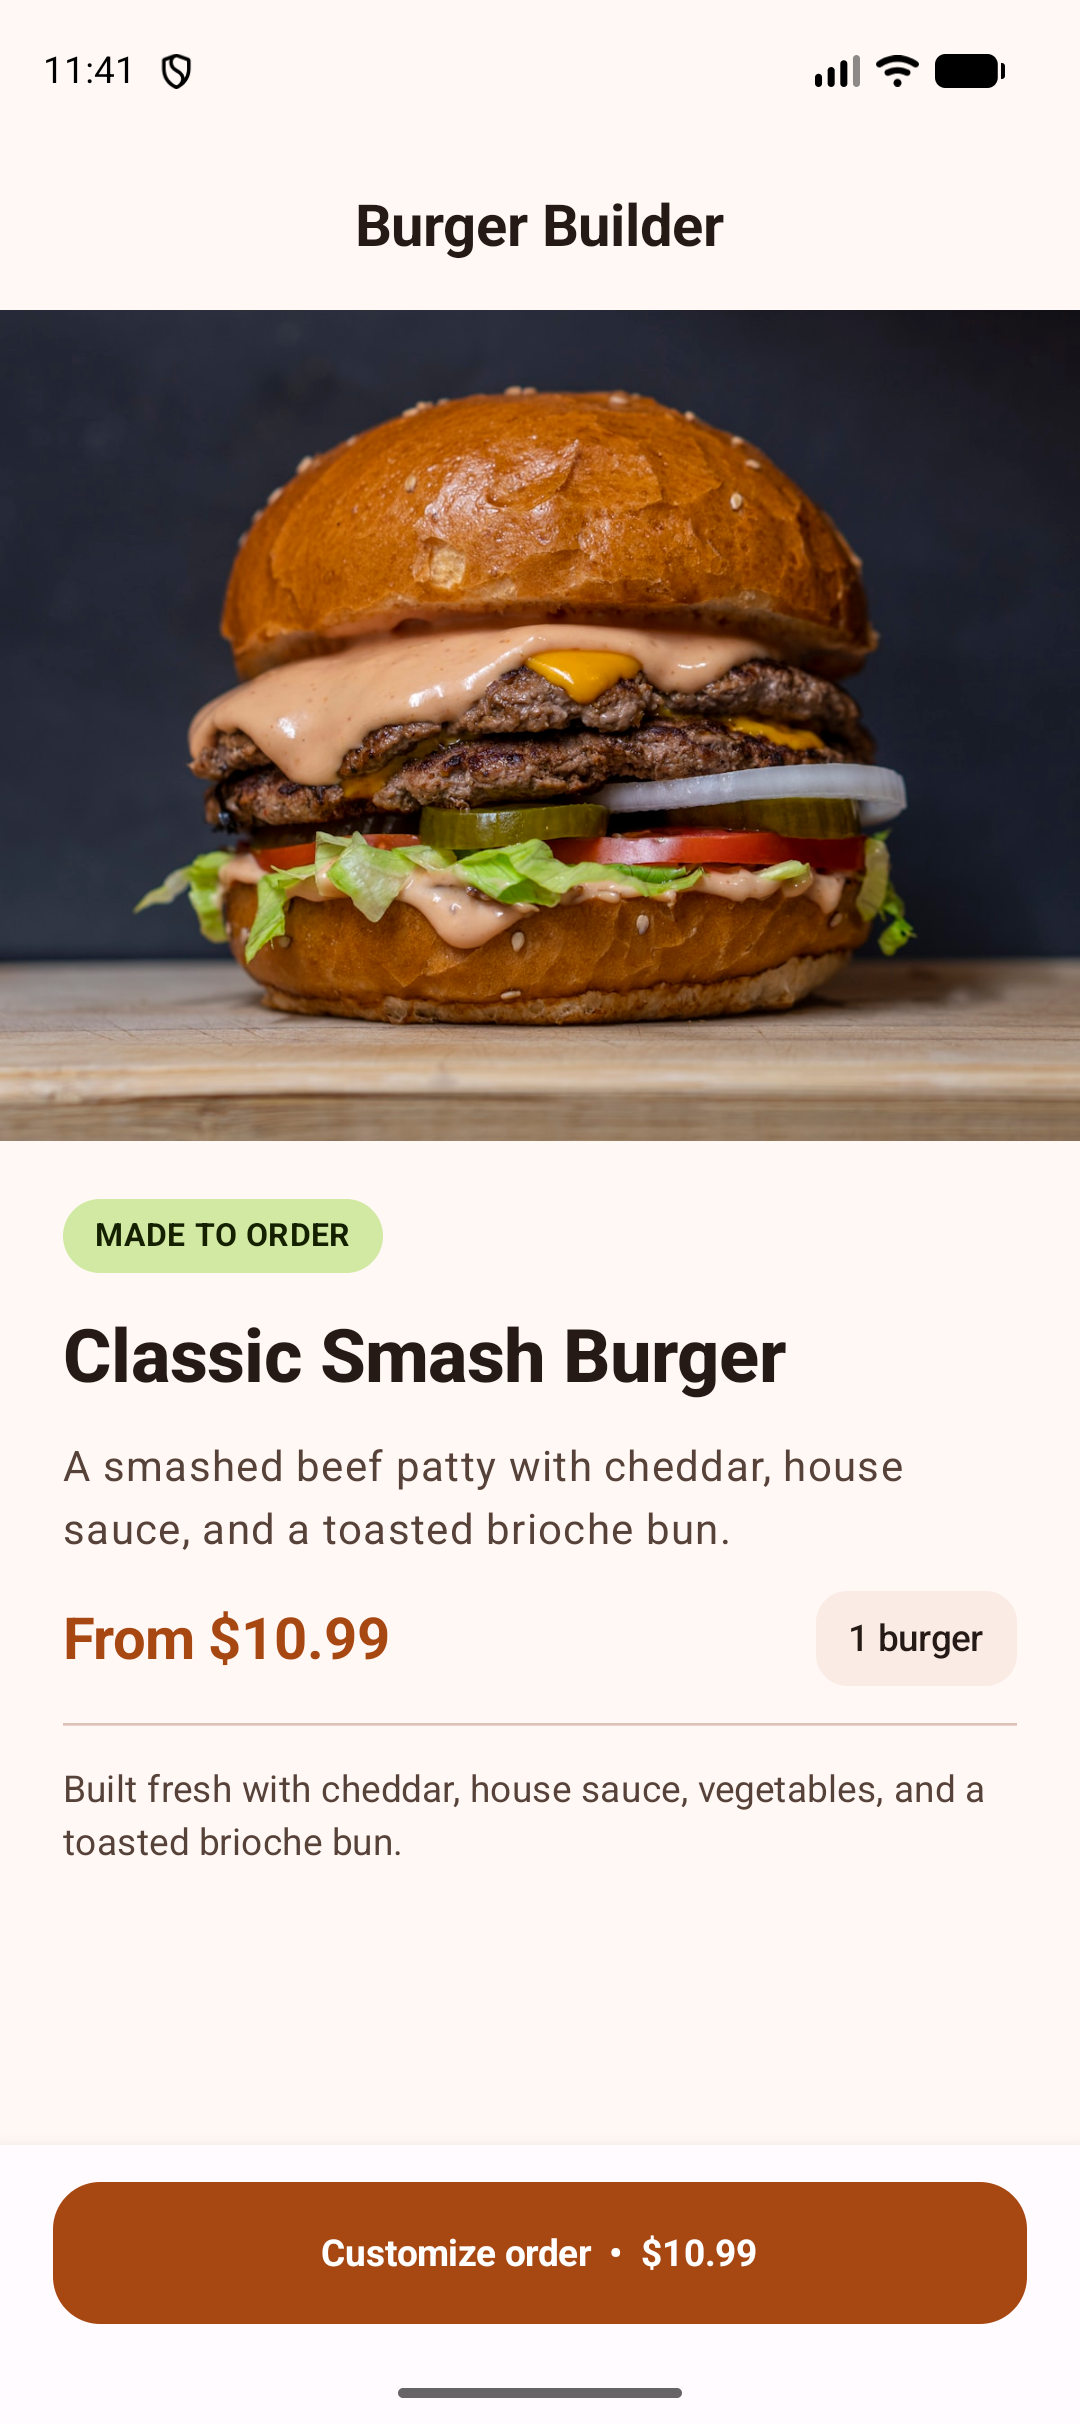
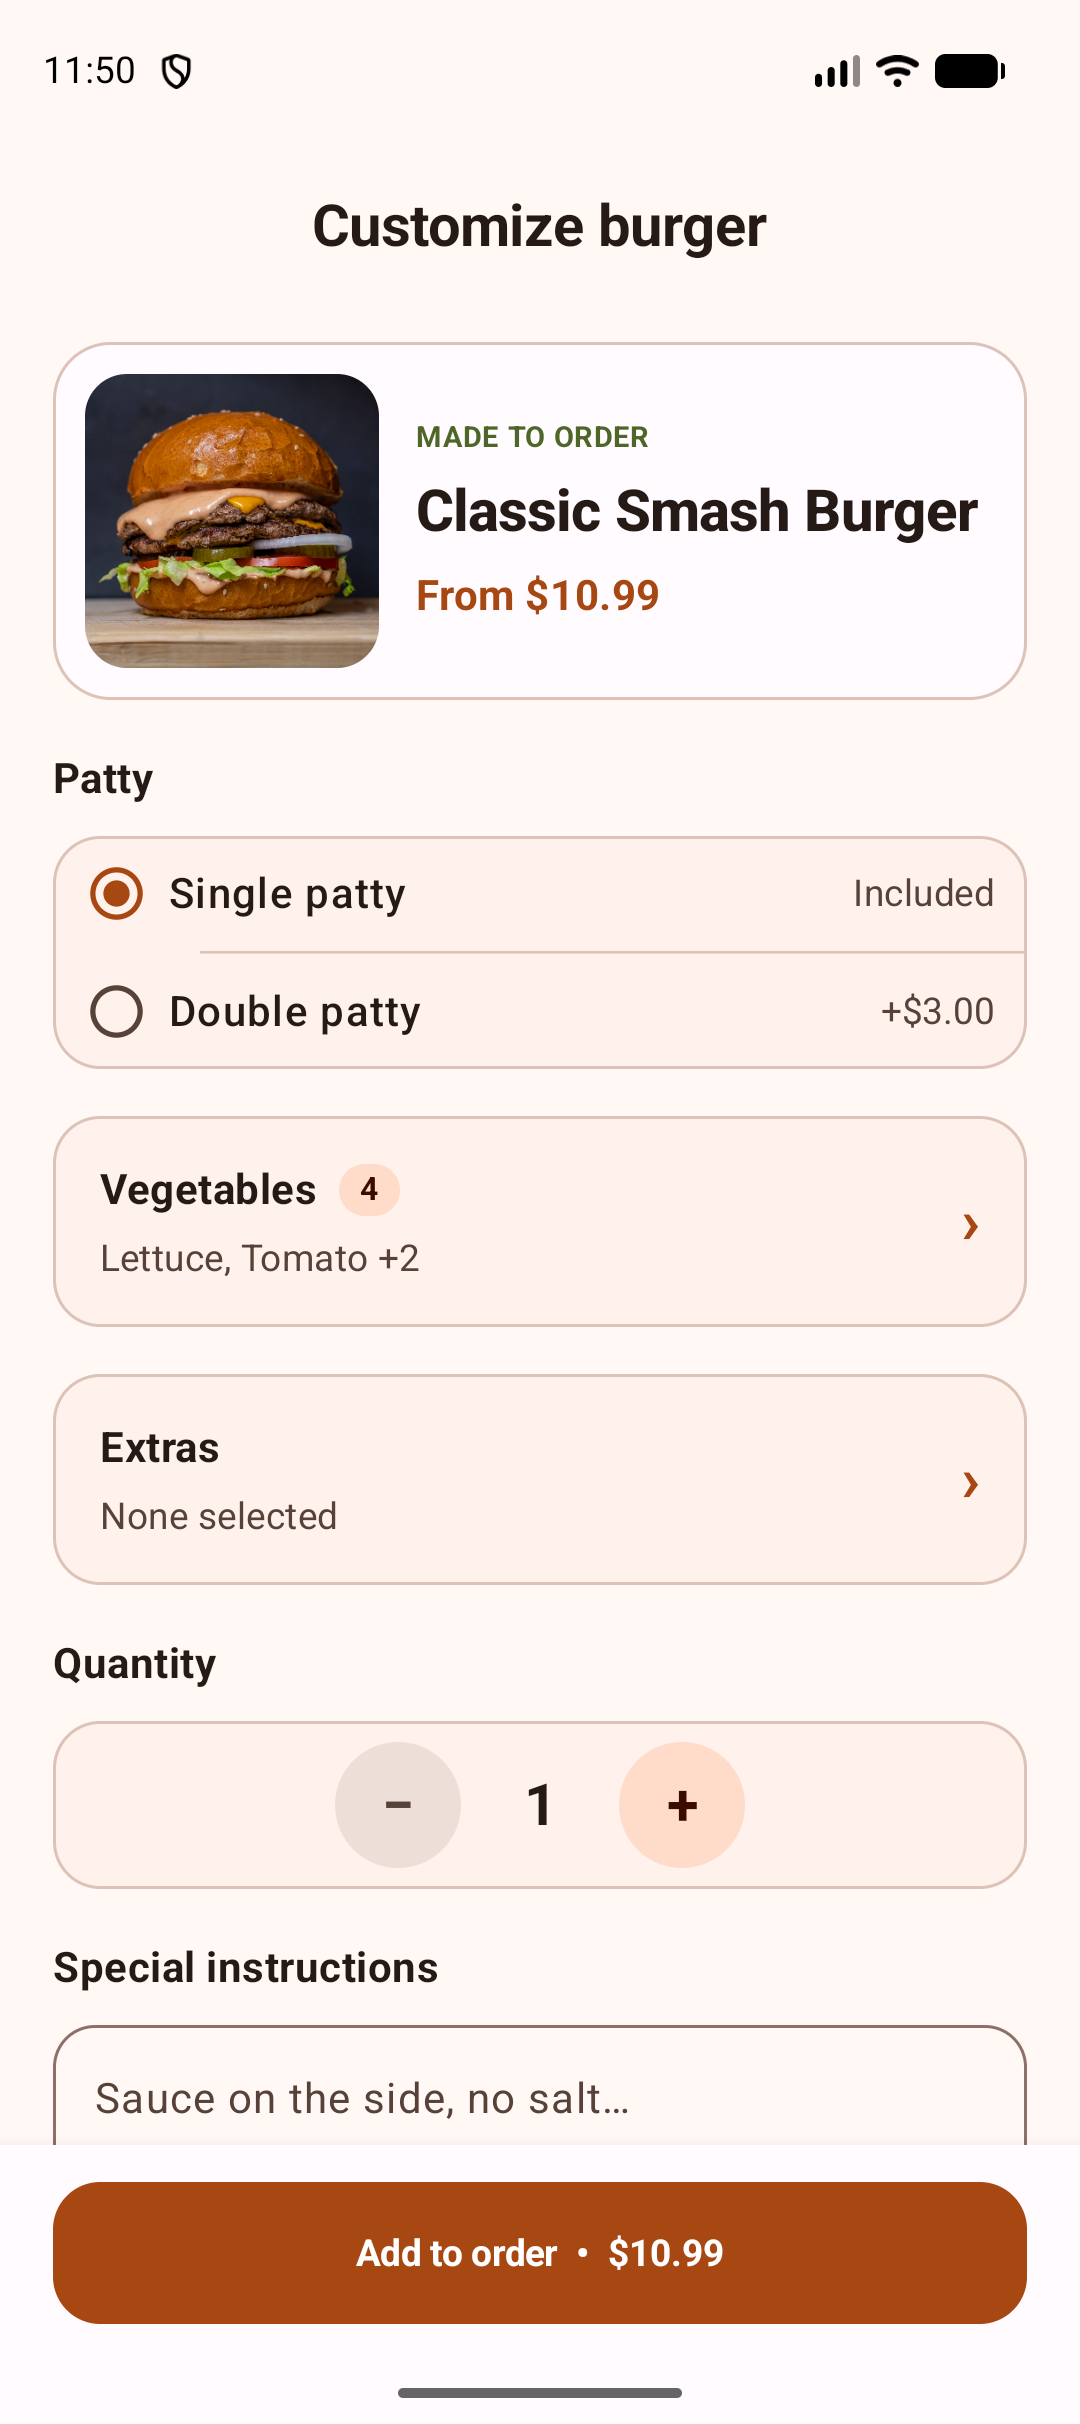
Update burger builder preview

diff --git a/README.md b/README.md
@@ -93,11 +93,11 @@ The screen can look good. Now it also has to remember what the user did.
 </td>
 <td width="58%" valign="top">
 <h3>1. Burger Builder</h3>
-<p>Build a realistic food-order flow for choosing a patty, vegetables, extras, quantity, and special instructions.</p>
+<p>Build a compact food-order customizer where vegetables and extras open their own focused option sheets.</p>
 <strong>What you’ll practice</strong>
 <ul>
 <li><code>rememberSaveable</code> for in-progress choices and text input</li>
-<li><code>ModalBottomSheet</code> with state hoisted above dismissible content</li>
+<li><code>ModalBottomSheet</code> for focused option pickers with state hoisted above them</li>
 </ul>
 <a href="level-02-state-and-input/burger-builder">Open challenge</a>
 </td>
